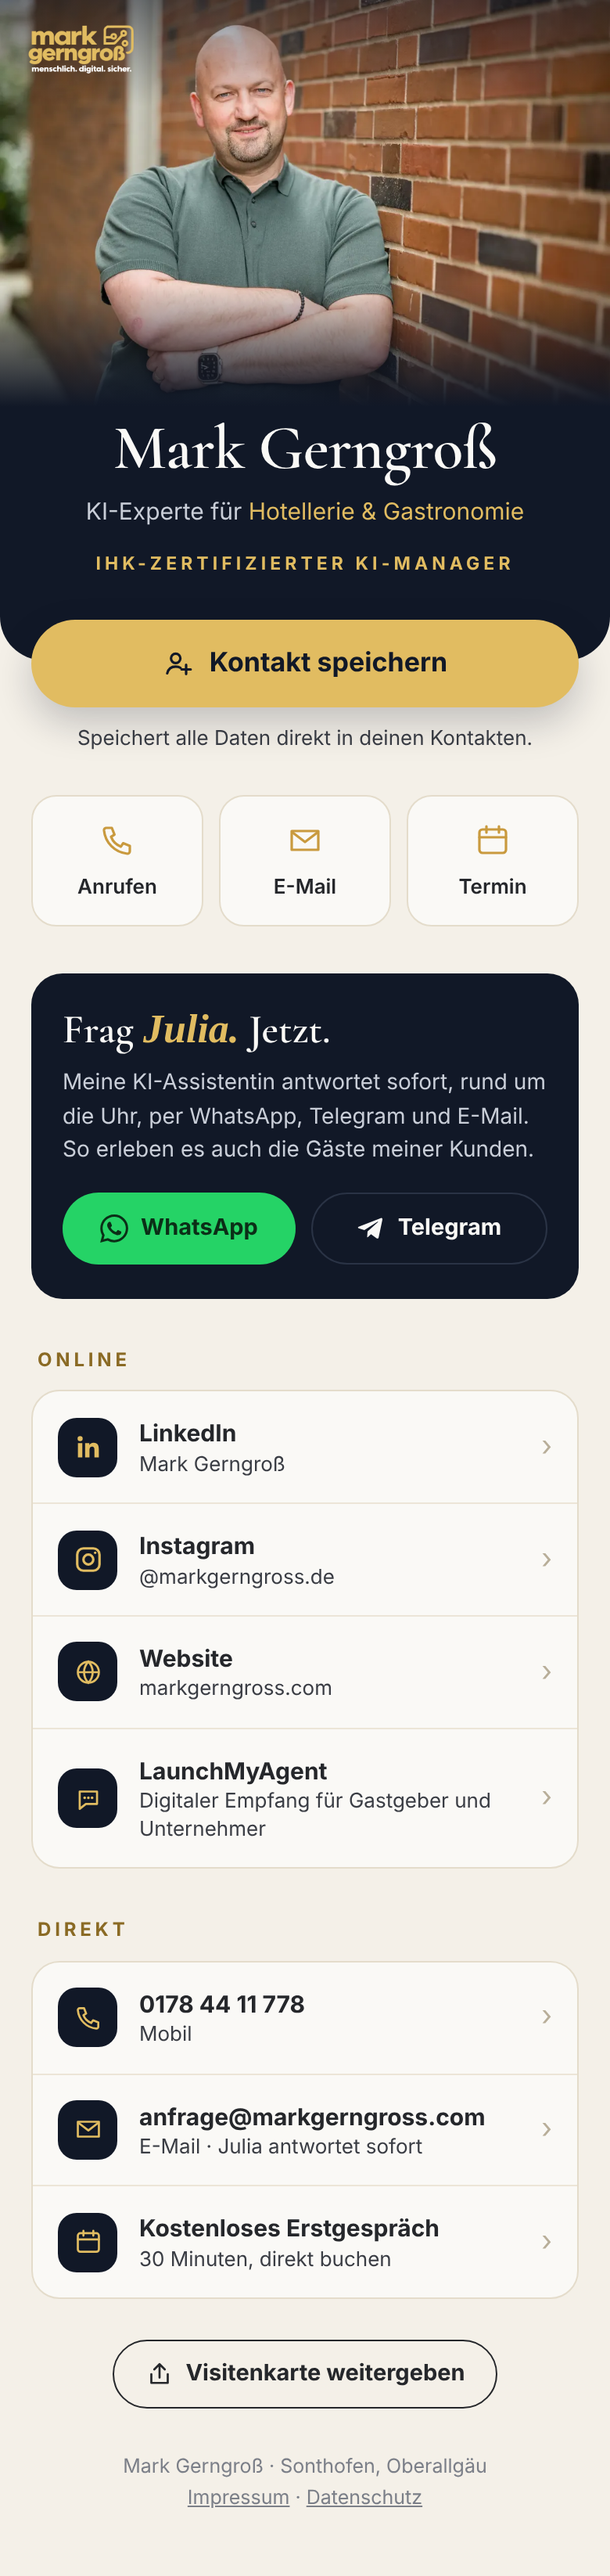
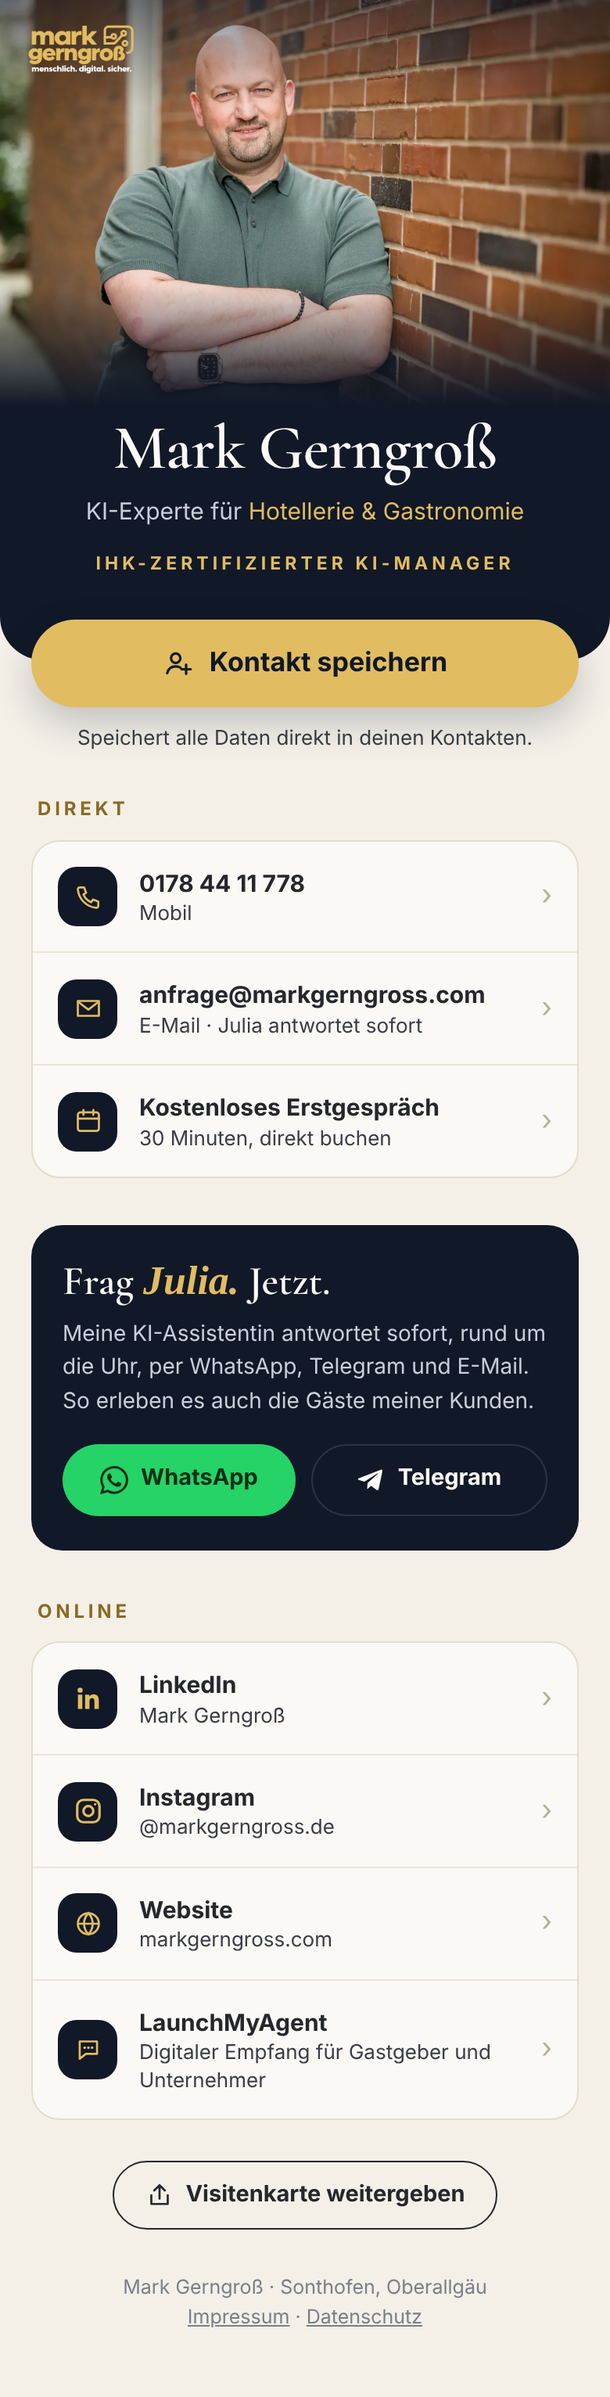
Visitenkarte: doppelte Schnellkontakte entfernen
Claude-Session: https://claude.ai/code/session_01R45M5Exwi4jmdcLthcgNcZ

diff --git a/visitenkarte/karte/index.html b/visitenkarte/karte/index.html
@@ -60,6 +60,7 @@ a{color:inherit;text-decoration:none}
 
 /* Liste */
 .sec{margin:30px 20px 0}
+.sec--first{margin-top:26px}
 .sec h2{margin:0 0 10px 4px;font-size:12px;letter-spacing:.2em;text-transform:uppercase;font-weight:700;color:var(--gold-text)}
 .list{background:var(--card);border:1px solid #E4DCCB;border-radius:18px;overflow:hidden}
 .list a{display:flex;align-items:center;gap:14px;padding:15px 16px;min-height:60px}
@@ -112,20 +113,23 @@ a{color:inherit;text-decoration:none}
   </a>
   <p class="hint">Speichert alle Daten direkt in deinen Kontakten.</p>
 
-  <nav class="quick" aria-label="Schnellkontakt">
-    <a href="tel:+491784411778">
-      <svg viewBox="0 0 24 24" fill="none" aria-hidden="true"><path d="M5 4h3.5l1.7 4.3-2.2 1.4a11 11 0 006.3 6.3l1.4-2.2L20 15.5V19a1.5 1.5 0 01-1.6 1.5A16.5 16.5 0 013.5 5.6 1.5 1.5 0 015 4z" stroke="currentColor" stroke-width="1.6" stroke-linejoin="round"/></svg>
-      Anrufen
-    </a>
-    <a href="mailto:anfrage@markgerngross.com">
-      <svg viewBox="0 0 24 24" fill="none" aria-hidden="true"><path d="M3.5 6h17v12h-17z" stroke="currentColor" stroke-width="1.6" stroke-linejoin="round"/><path d="M3.5 6.5l8.5 6.5 8.5-6.5" stroke="currentColor" stroke-width="1.6" stroke-linejoin="round"/></svg>
-      E-Mail
-    </a>
-    <a href="https://termine.markgerngross.com/b/erstgespraech" target="_blank" rel="noopener">
-      <svg viewBox="0 0 24 24" fill="none" aria-hidden="true"><rect x="3.5" y="5" width="17" height="15" rx="2" stroke="currentColor" stroke-width="1.6"/><path d="M3.5 10h17M8 3v4M16 3v4" stroke="currentColor" stroke-width="1.6" stroke-linecap="round"/></svg>
-      Termin
-    </a>
-  </nav>
+  <section class="sec sec--first">
+    <h2>Direkt</h2>
+    <div class="list">
+      <a href="tel:+491784411778">
+        <span class="ico"><svg viewBox="0 0 24 24" fill="none" aria-hidden="true"><path d="M5 4h3.5l1.7 4.3-2.2 1.4a11 11 0 006.3 6.3l1.4-2.2L20 15.5V19a1.5 1.5 0 01-1.6 1.5A16.5 16.5 0 013.5 5.6 1.5 1.5 0 015 4z" stroke="currentColor" stroke-width="1.7" stroke-linejoin="round"/></svg></span>
+        <span class="txt"><b>0178 44 11 778</b><small>Mobil</small></span><span class="arr" aria-hidden="true">›</span>
+      </a>
+      <a href="mailto:anfrage@markgerngross.com">
+        <span class="ico"><svg viewBox="0 0 24 24" fill="none" aria-hidden="true"><path d="M3.5 6h17v12h-17z" stroke="currentColor" stroke-width="1.7" stroke-linejoin="round"/><path d="M3.5 6.5l8.5 6.5 8.5-6.5" stroke="currentColor" stroke-width="1.7" stroke-linejoin="round"/></svg></span>
+        <span class="txt"><b>anfrage@markgerngross.com</b><small>E-Mail · Julia antwortet sofort</small></span><span class="arr" aria-hidden="true">›</span>
+      </a>
+      <a href="https://termine.markgerngross.com/b/erstgespraech" target="_blank" rel="noopener">
+        <span class="ico"><svg viewBox="0 0 24 24" fill="none" aria-hidden="true"><rect x="3.5" y="5" width="17" height="15" rx="2" stroke="currentColor" stroke-width="1.7"/><path d="M3.5 10h17M8 3v4M16 3v4" stroke="currentColor" stroke-width="1.7" stroke-linecap="round"/></svg></span>
+        <span class="txt"><b>Kostenloses Erstgespräch</b><small>30 Minuten, direkt buchen</small></span><span class="arr" aria-hidden="true">›</span>
+      </a>
+    </div>
+  </section>
 
   <section class="julia" aria-label="Julia, digitale Assistentin">
     <p class="julia__t">Frag <em>Julia.</em> Jetzt.</p>
@@ -160,24 +164,6 @@ a{color:inherit;text-decoration:none}
       <a href="https://launchmyagent.de" target="_blank" rel="noopener">
         <span class="ico"><svg viewBox="0 0 24 24" fill="none" stroke="currentColor" stroke-width="1.7" stroke-linejoin="round" aria-hidden="true"><path d="M5 6h14v10H10l-5 4z"/><path d="M9 11h.01M12 11h.01M15 11h.01" stroke-linecap="round" stroke-width="2.2"/></svg></span>
         <span class="txt"><b>LaunchMyAgent</b><small>Digitaler Empfang für Gastgeber und Unternehmer</small></span><span class="arr" aria-hidden="true">›</span>
-      </a>
-    </div>
-  </section>
-
-  <section class="sec">
-    <h2>Direkt</h2>
-    <div class="list">
-      <a href="tel:+491784411778">
-        <span class="ico"><svg viewBox="0 0 24 24" fill="none" aria-hidden="true"><path d="M5 4h3.5l1.7 4.3-2.2 1.4a11 11 0 006.3 6.3l1.4-2.2L20 15.5V19a1.5 1.5 0 01-1.6 1.5A16.5 16.5 0 013.5 5.6 1.5 1.5 0 015 4z" stroke="currentColor" stroke-width="1.7" stroke-linejoin="round"/></svg></span>
-        <span class="txt"><b>0178 44 11 778</b><small>Mobil</small></span><span class="arr" aria-hidden="true">›</span>
-      </a>
-      <a href="mailto:anfrage@markgerngross.com">
-        <span class="ico"><svg viewBox="0 0 24 24" fill="none" aria-hidden="true"><path d="M3.5 6h17v12h-17z" stroke="currentColor" stroke-width="1.7" stroke-linejoin="round"/><path d="M3.5 6.5l8.5 6.5 8.5-6.5" stroke="currentColor" stroke-width="1.7" stroke-linejoin="round"/></svg></span>
-        <span class="txt"><b>anfrage@markgerngross.com</b><small>E-Mail · Julia antwortet sofort</small></span><span class="arr" aria-hidden="true">›</span>
-      </a>
-      <a href="https://termine.markgerngross.com/b/erstgespraech" target="_blank" rel="noopener">
-        <span class="ico"><svg viewBox="0 0 24 24" fill="none" aria-hidden="true"><rect x="3.5" y="5" width="17" height="15" rx="2" stroke="currentColor" stroke-width="1.7"/><path d="M3.5 10h17M8 3v4M16 3v4" stroke="currentColor" stroke-width="1.7" stroke-linecap="round"/></svg></span>
-        <span class="txt"><b>Kostenloses Erstgespräch</b><small>30 Minuten, direkt buchen</small></span><span class="arr" aria-hidden="true">›</span>
       </a>
     </div>
   </section>
